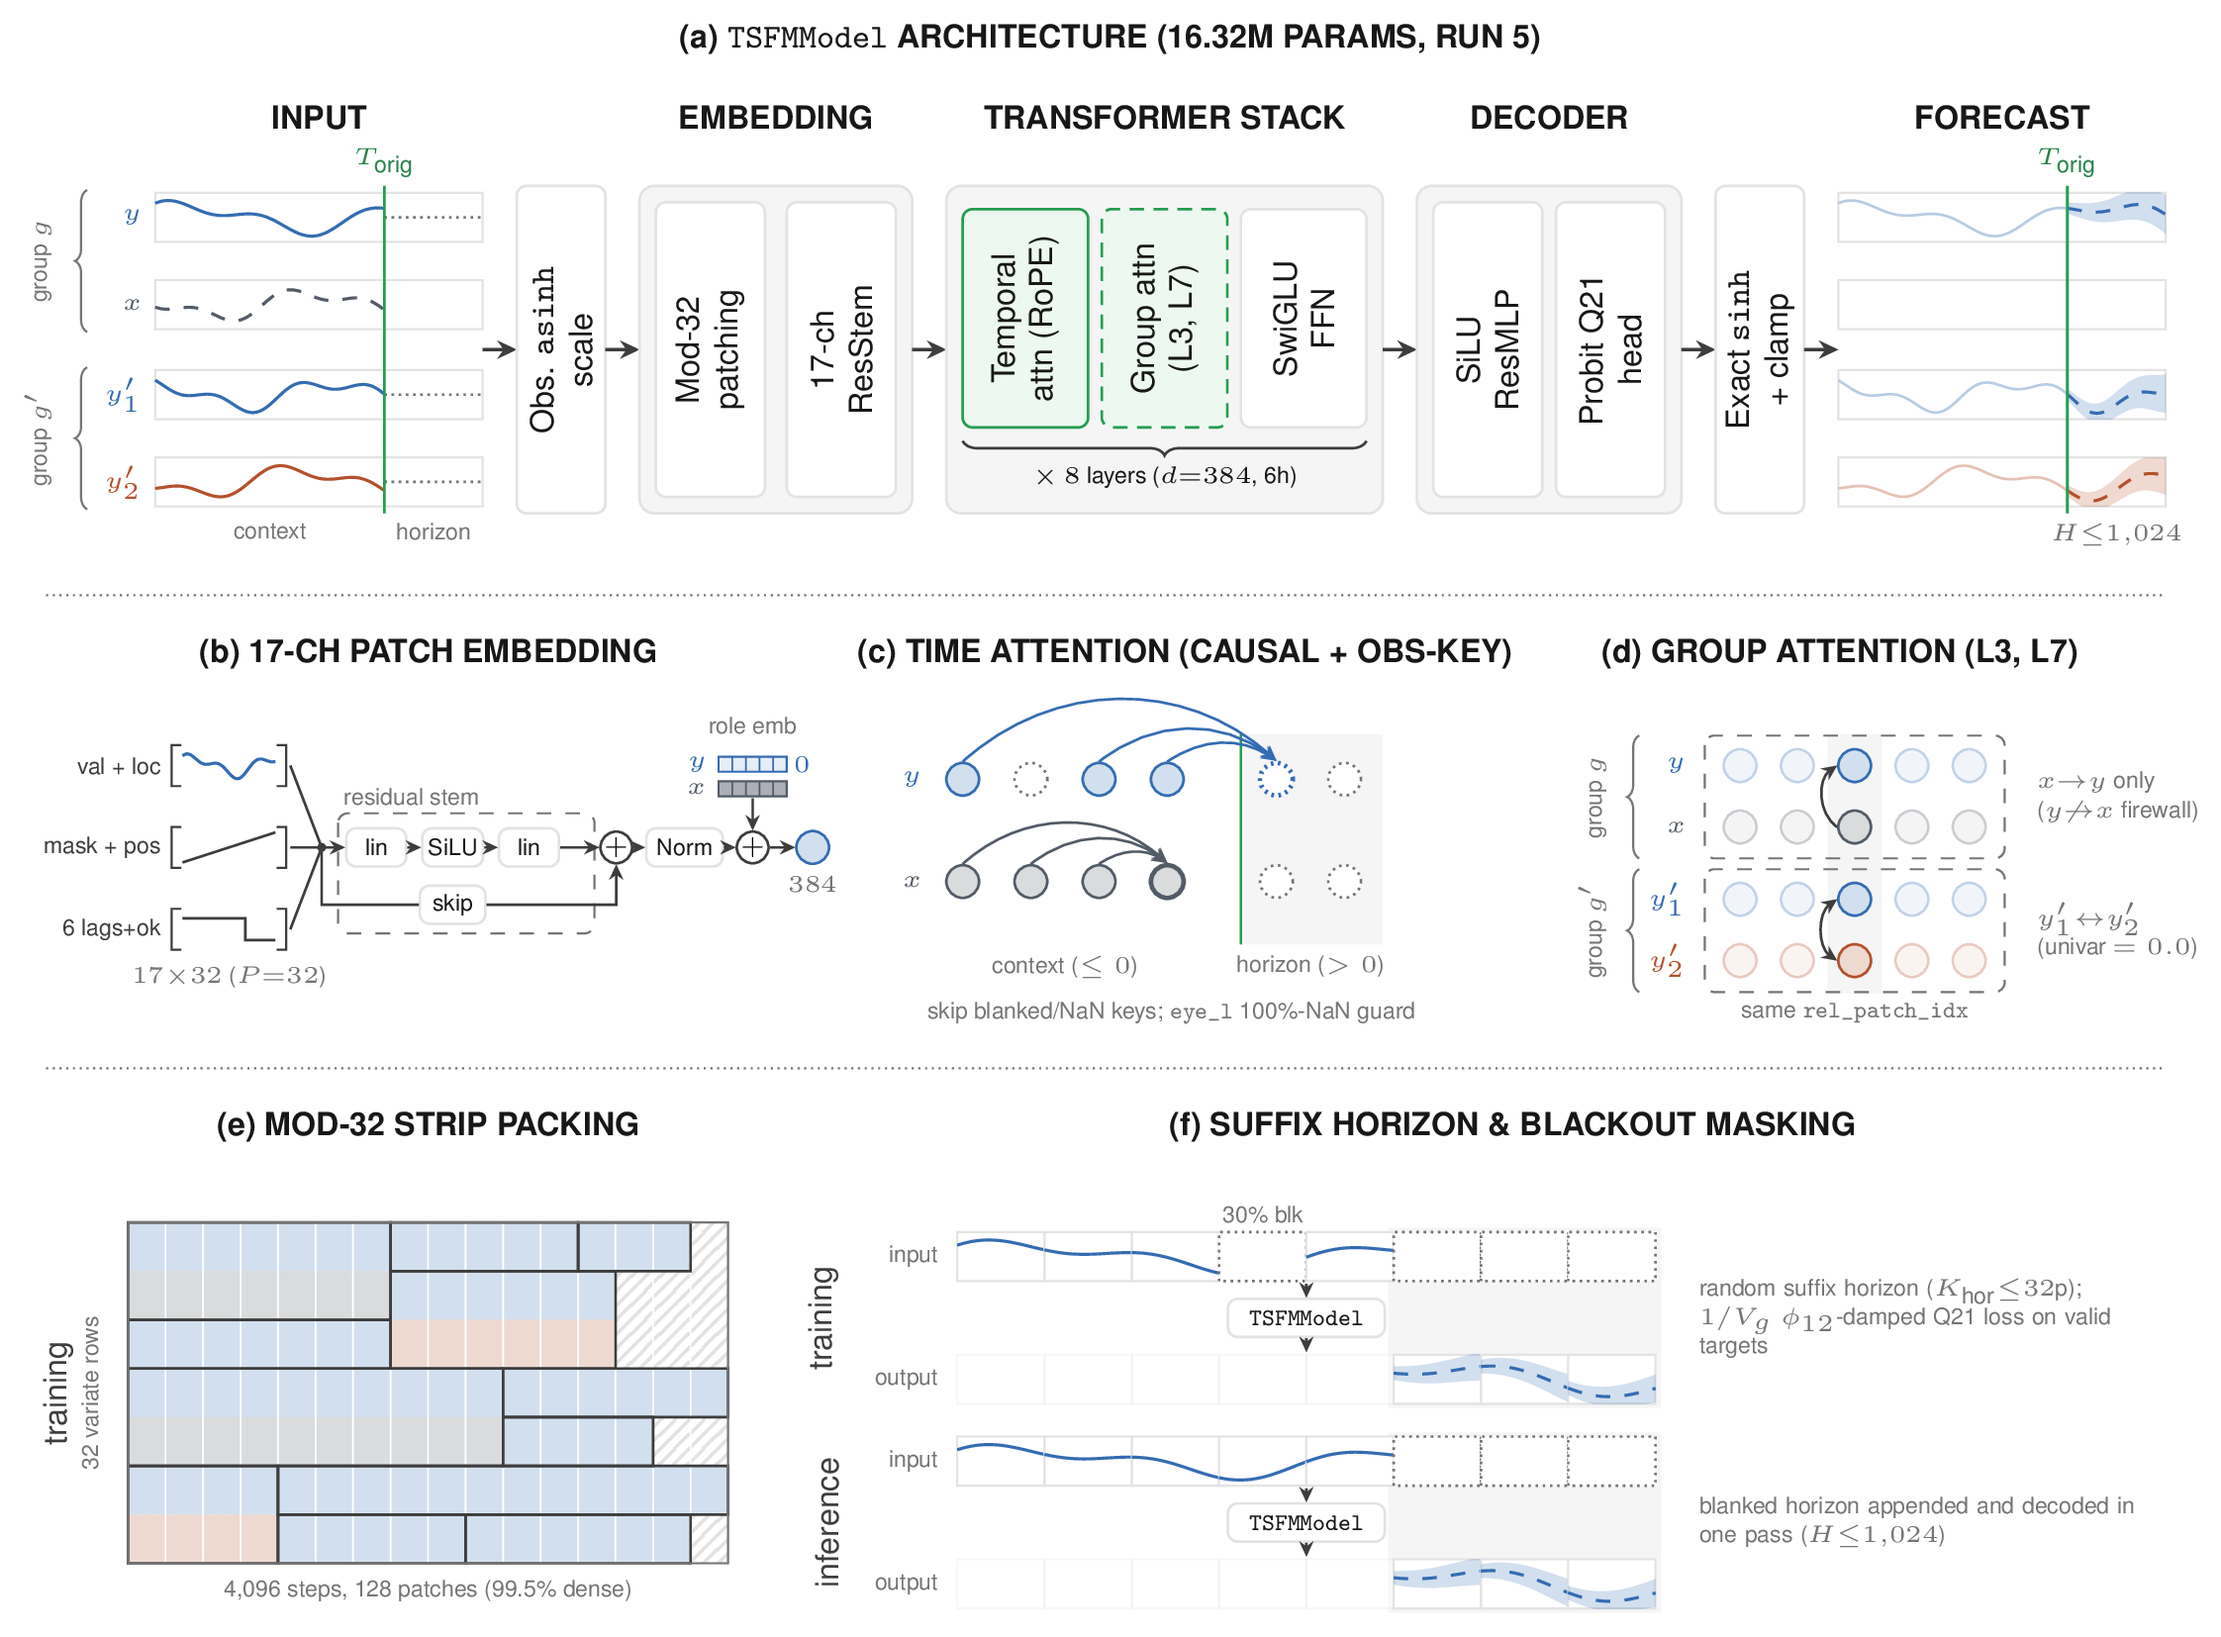
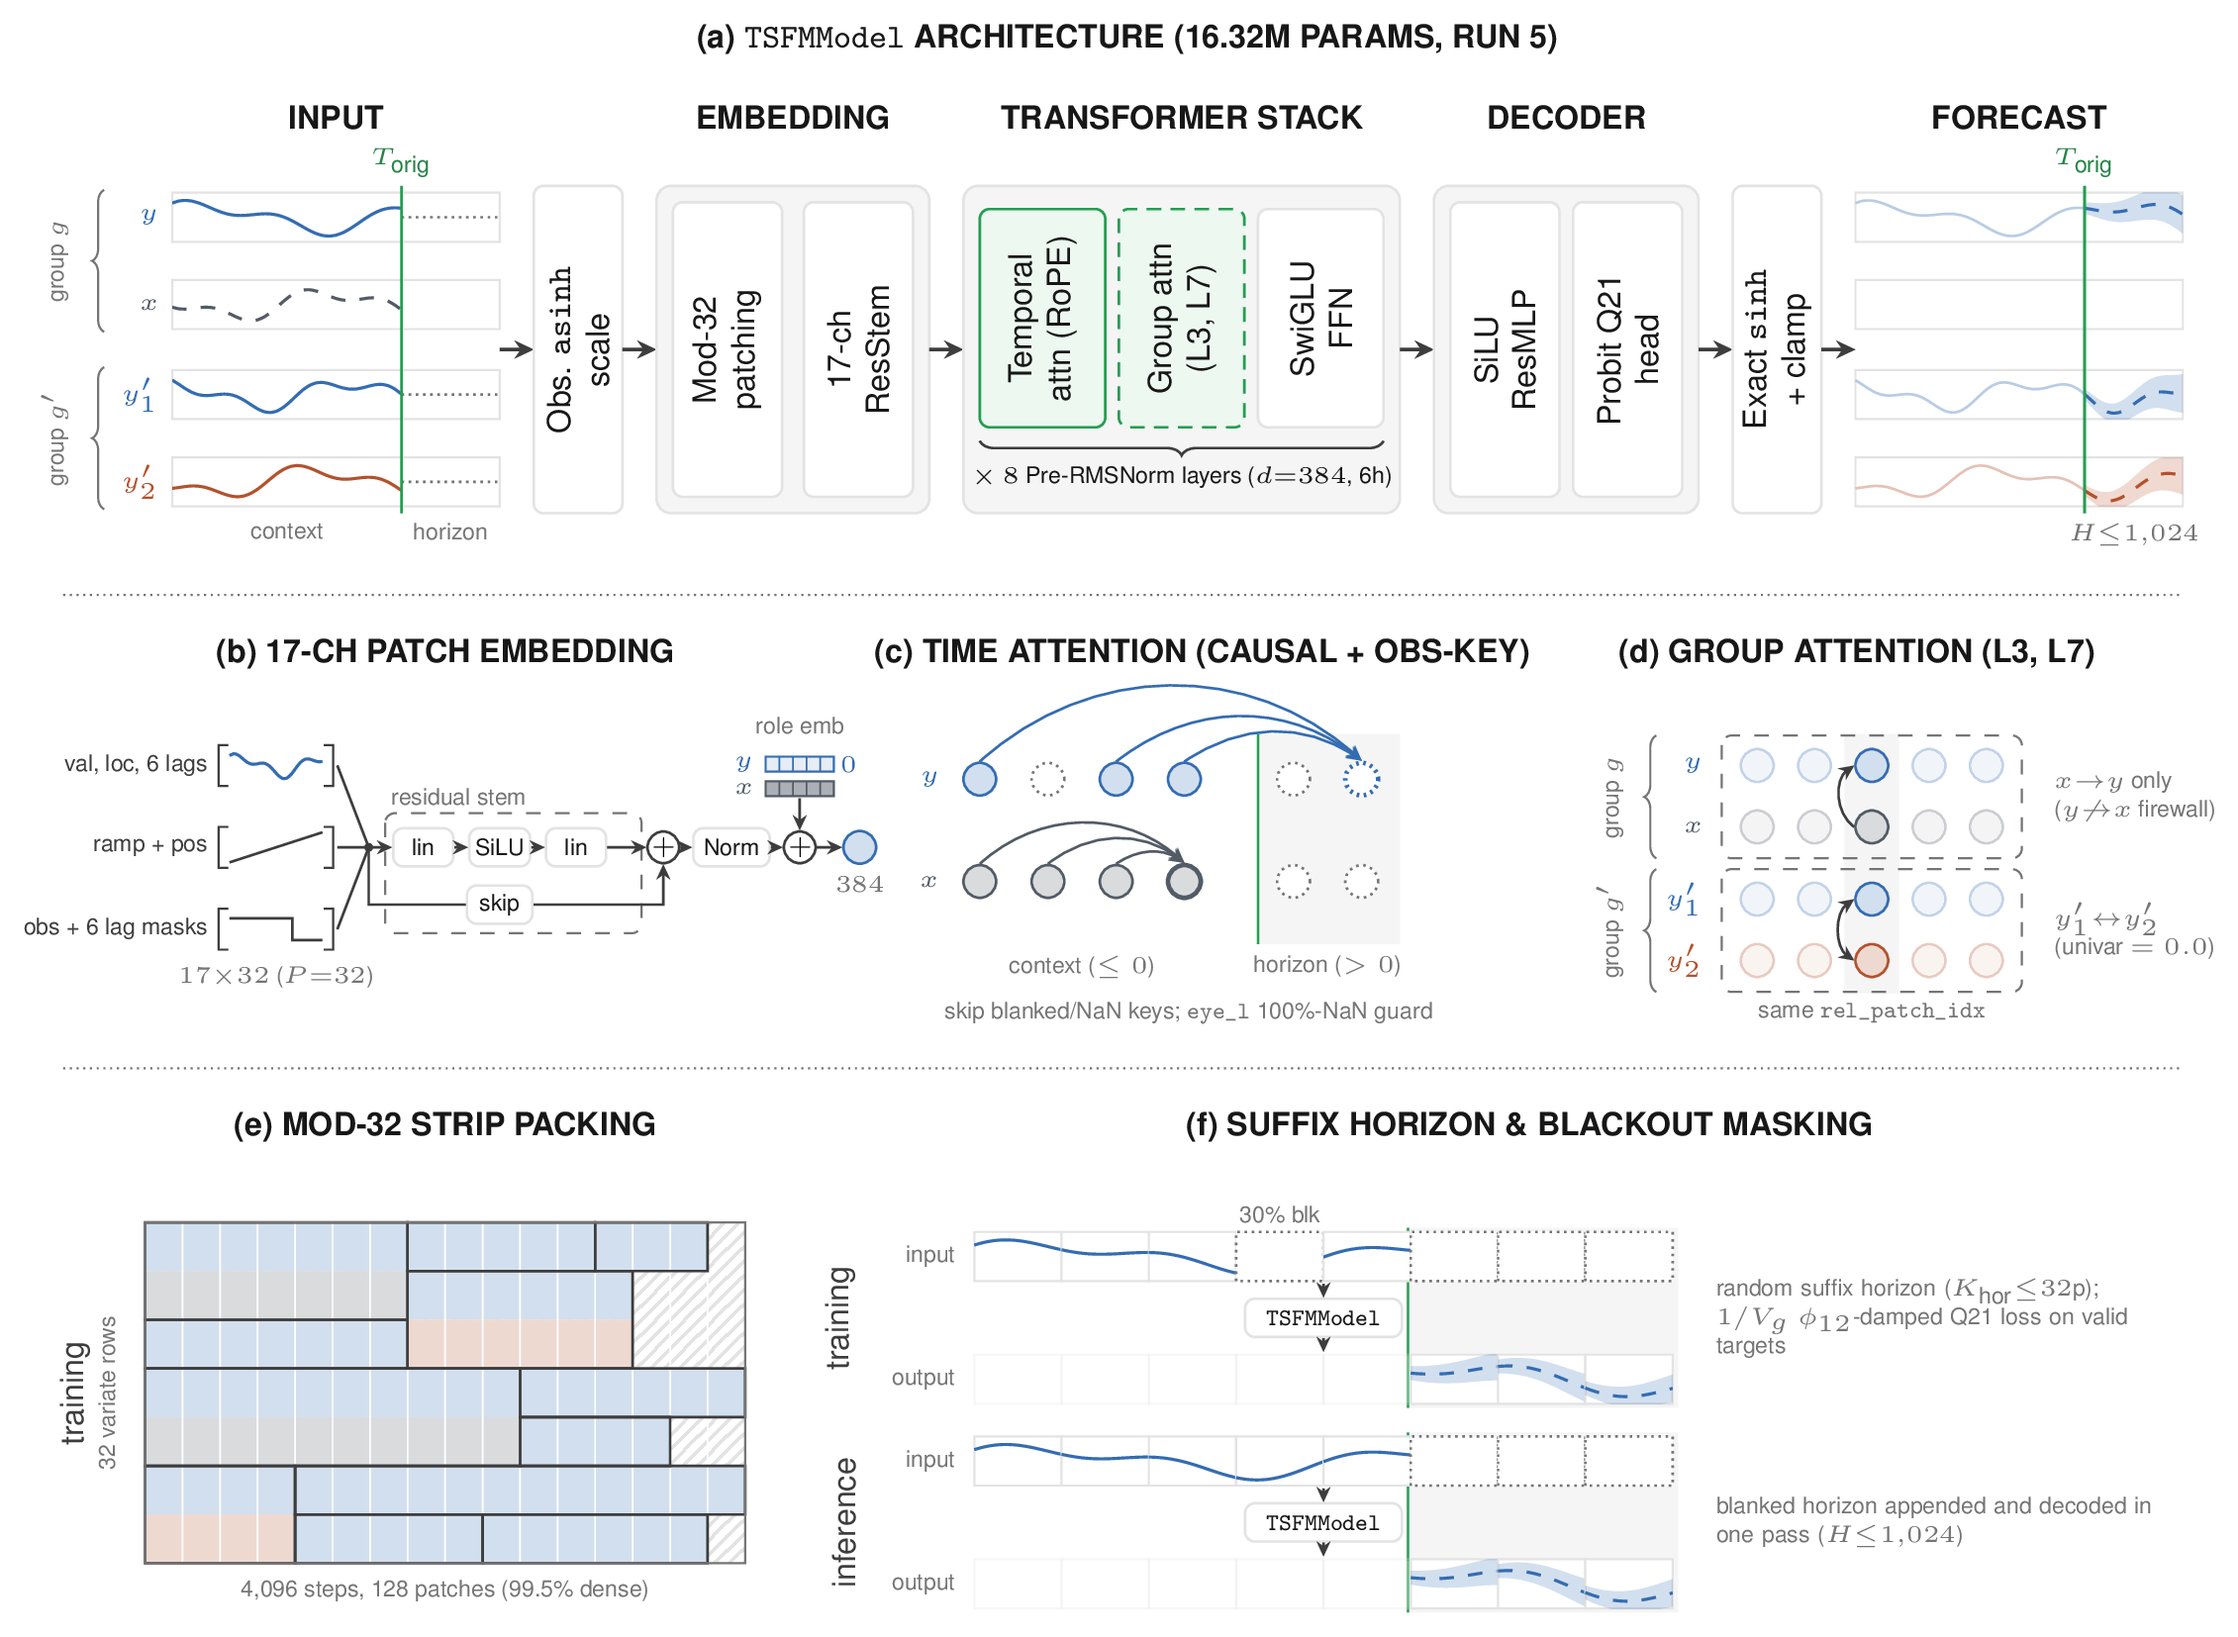
fig0: fix 17-ch patch stem labels, explicit Pre-RMSNorm label, and horizon skip arrows

diff --git a/scripts/export_plots.py b/scripts/export_plots.py
@@ -707,7 +707,7 @@ _ARCHITECTURE_TIKZ_TEX = r"""\documentclass[border=8pt]{standalone}
 \draw[decorate, decoration={brace, amplitude=3pt, mirror}, tfcbody,
   line width=0.5pt] (6.72, 0.88) -- (9.68, 0.88);
 \node[font=\tiny, text=tfcink, anchor=north, inner sep=1pt]
-  at (8.20, 0.74) {$\times\,8$ layers ($d{=}384$, 6h)};
+  at (8.20, 0.74) {$\times\,8$ Pre-RMSNorm layers ($d{=}384$, 6h)};
 
 \draw[flow] (9.80, 1.55) -- (10.05, 1.55);
 \draw[archpanel] (10.05, 0.35) rectangle (11.99, 2.75);
@@ -735,10 +735,10 @@ _ARCHITECTURE_TIKZ_TEX = r"""\documentclass[border=8pt]{standalone}
 
 % --- (b) 17-CH PATCH EMBEDDING ---
 \node[paneltitle, anchor=north] at (2.80, -0.45) {(b) 17-CH PATCH EMBEDDING};
-\begin{scope}[yshift=-0.25cm]
-\node[rowlabel, text=tfcbody] at (0.88, -1.25) {val + loc};
-\node[rowlabel, text=tfcbody] at (0.88, -1.85) {mask + pos};
-\node[rowlabel, text=tfcbody] at (0.88, -2.45) {6 lags+ok};
+\begin{scope}[xshift=0.22cm, yshift=-0.25cm]
+\node[rowlabel, text=tfcbody] at (0.88, -1.25) {val, loc, 6 lags};
+\node[rowlabel, text=tfcbody] at (0.88, -1.85) {ramp + pos};
+\node[rowlabel, text=tfcbody] at (0.88, -2.45) {obs + 6 lag masks};
 \foreach \yc in {-1.25, -1.85, -2.45} {
   \draw[tfcbody, line width=0.4pt]
     (0.99, \yc+0.15) -| (0.92, \yc-0.15) -- (0.99, \yc-0.15);
@@ -806,8 +806,8 @@ _ARCHITECTURE_TIKZ_TEX = r"""\documentclass[border=8pt]{standalone}
 \node[blanktok] (ty1) at (7.22, -1.35) {};
 \tokn{ty2}{7.72}{-1.35}{roley}
 \tokn{ty3}{8.22}{-1.35}{roley}
-\node[blanktok, draw=roley, line width=0.9pt] (ty4) at (9.02, -1.35) {};
-\node[blanktok] (ty5) at (9.52, -1.35) {};
+\node[blanktok] (ty4) at (9.02, -1.35) {};
+\node[blanktok, draw=roley, line width=0.9pt] (ty5) at (9.52, -1.35) {};
 
 \tokn{tx0}{6.72}{-2.10}{rolex}
 \tokn{tx1}{7.22}{-2.10}{rolex}
@@ -816,9 +816,9 @@ _ARCHITECTURE_TIKZ_TEX = r"""\documentclass[border=8pt]{standalone}
 \node[blanktok] (tx4) at (9.02, -2.10) {};
 \node[blanktok] (tx5) at (9.52, -2.10) {};
 
-\draw[attnarrow, roley] (ty0.north) to[bend left=42] (ty4.north);
-\draw[attnarrow, roley] (ty2.north) to[bend left=38] (ty4.north);
-\draw[attnarrow, roley] (ty3.north) to[bend left=34] (ty4.north);
+\draw[attnarrow, roley] (ty0.north) to[bend left=42] (ty5.north);
+\draw[attnarrow, roley] (ty2.north) to[bend left=38] (ty5.north);
+\draw[attnarrow, roley] (ty3.north) to[bend left=34] (ty5.north);
 
 \draw[attnarrow, rolex] (tx0.north) to[bend left=42] (tx3.north);
 \draw[attnarrow, rolex] (tx1.north) to[bend left=38] (tx3.north);
@@ -905,6 +905,7 @@ _ARCHITECTURE_TIKZ_TEX = r"""\documentclass[border=8pt]{standalone}
 \node[note, anchor=east, inner sep=1pt] at (6.58, -4.45) {input};
 \node[note, anchor=east, inner sep=1pt] at (6.58, -5.35) {output};
 \fill[tfcsurface] (6.68+5*0.64-0.04, -4.24) rectangle (6.68+8*0.64+0.04, -5.56);
+\draw[tfcgreenstroke, line width=0.45pt] (6.68+5*0.64-0.02, -4.24) -- (6.68+5*0.64-0.02, -5.56);
 \foreach \p/\k in {0/obs,1/obs,2/obs,3/blank,4/obs,5/blank,6/blank,7/blank}
   {\cpmpatch{6.68+\p*0.64}{-4.45}{\k}{\p*0.64}{roley}}
 \node[note, anchor=south, inner sep=0.5pt] at (6.68+3.5*0.64, -4.23) {30\% blk};
@@ -923,6 +924,7 @@ _ARCHITECTURE_TIKZ_TEX = r"""\documentclass[border=8pt]{standalone}
 \node[note, anchor=east, inner sep=1pt] at (6.58, -5.95) {input};
 \node[note, anchor=east, inner sep=1pt] at (6.58, -6.85) {output};
 \fill[tfcsurface] (6.68+5*0.64-0.04, -5.74) rectangle (6.68+8*0.64+0.04, -7.06);
+\draw[tfcgreenstroke, line width=0.45pt] (6.68+5*0.64-0.02, -5.74) -- (6.68+5*0.64-0.02, -7.06);
 \foreach \p/\k in {0/obs,1/obs,2/obs,3/obs,4/obs,5/blank,6/blank,7/blank}
   {\cpmpatch{6.68+\p*0.64}{-5.95}{\k}{\p*0.64}{roley}}
 \node[smallblock, minimum width=1.15cm] (cpminfer) at (9.24, -6.40) {\texttt{TSFMModel}};
